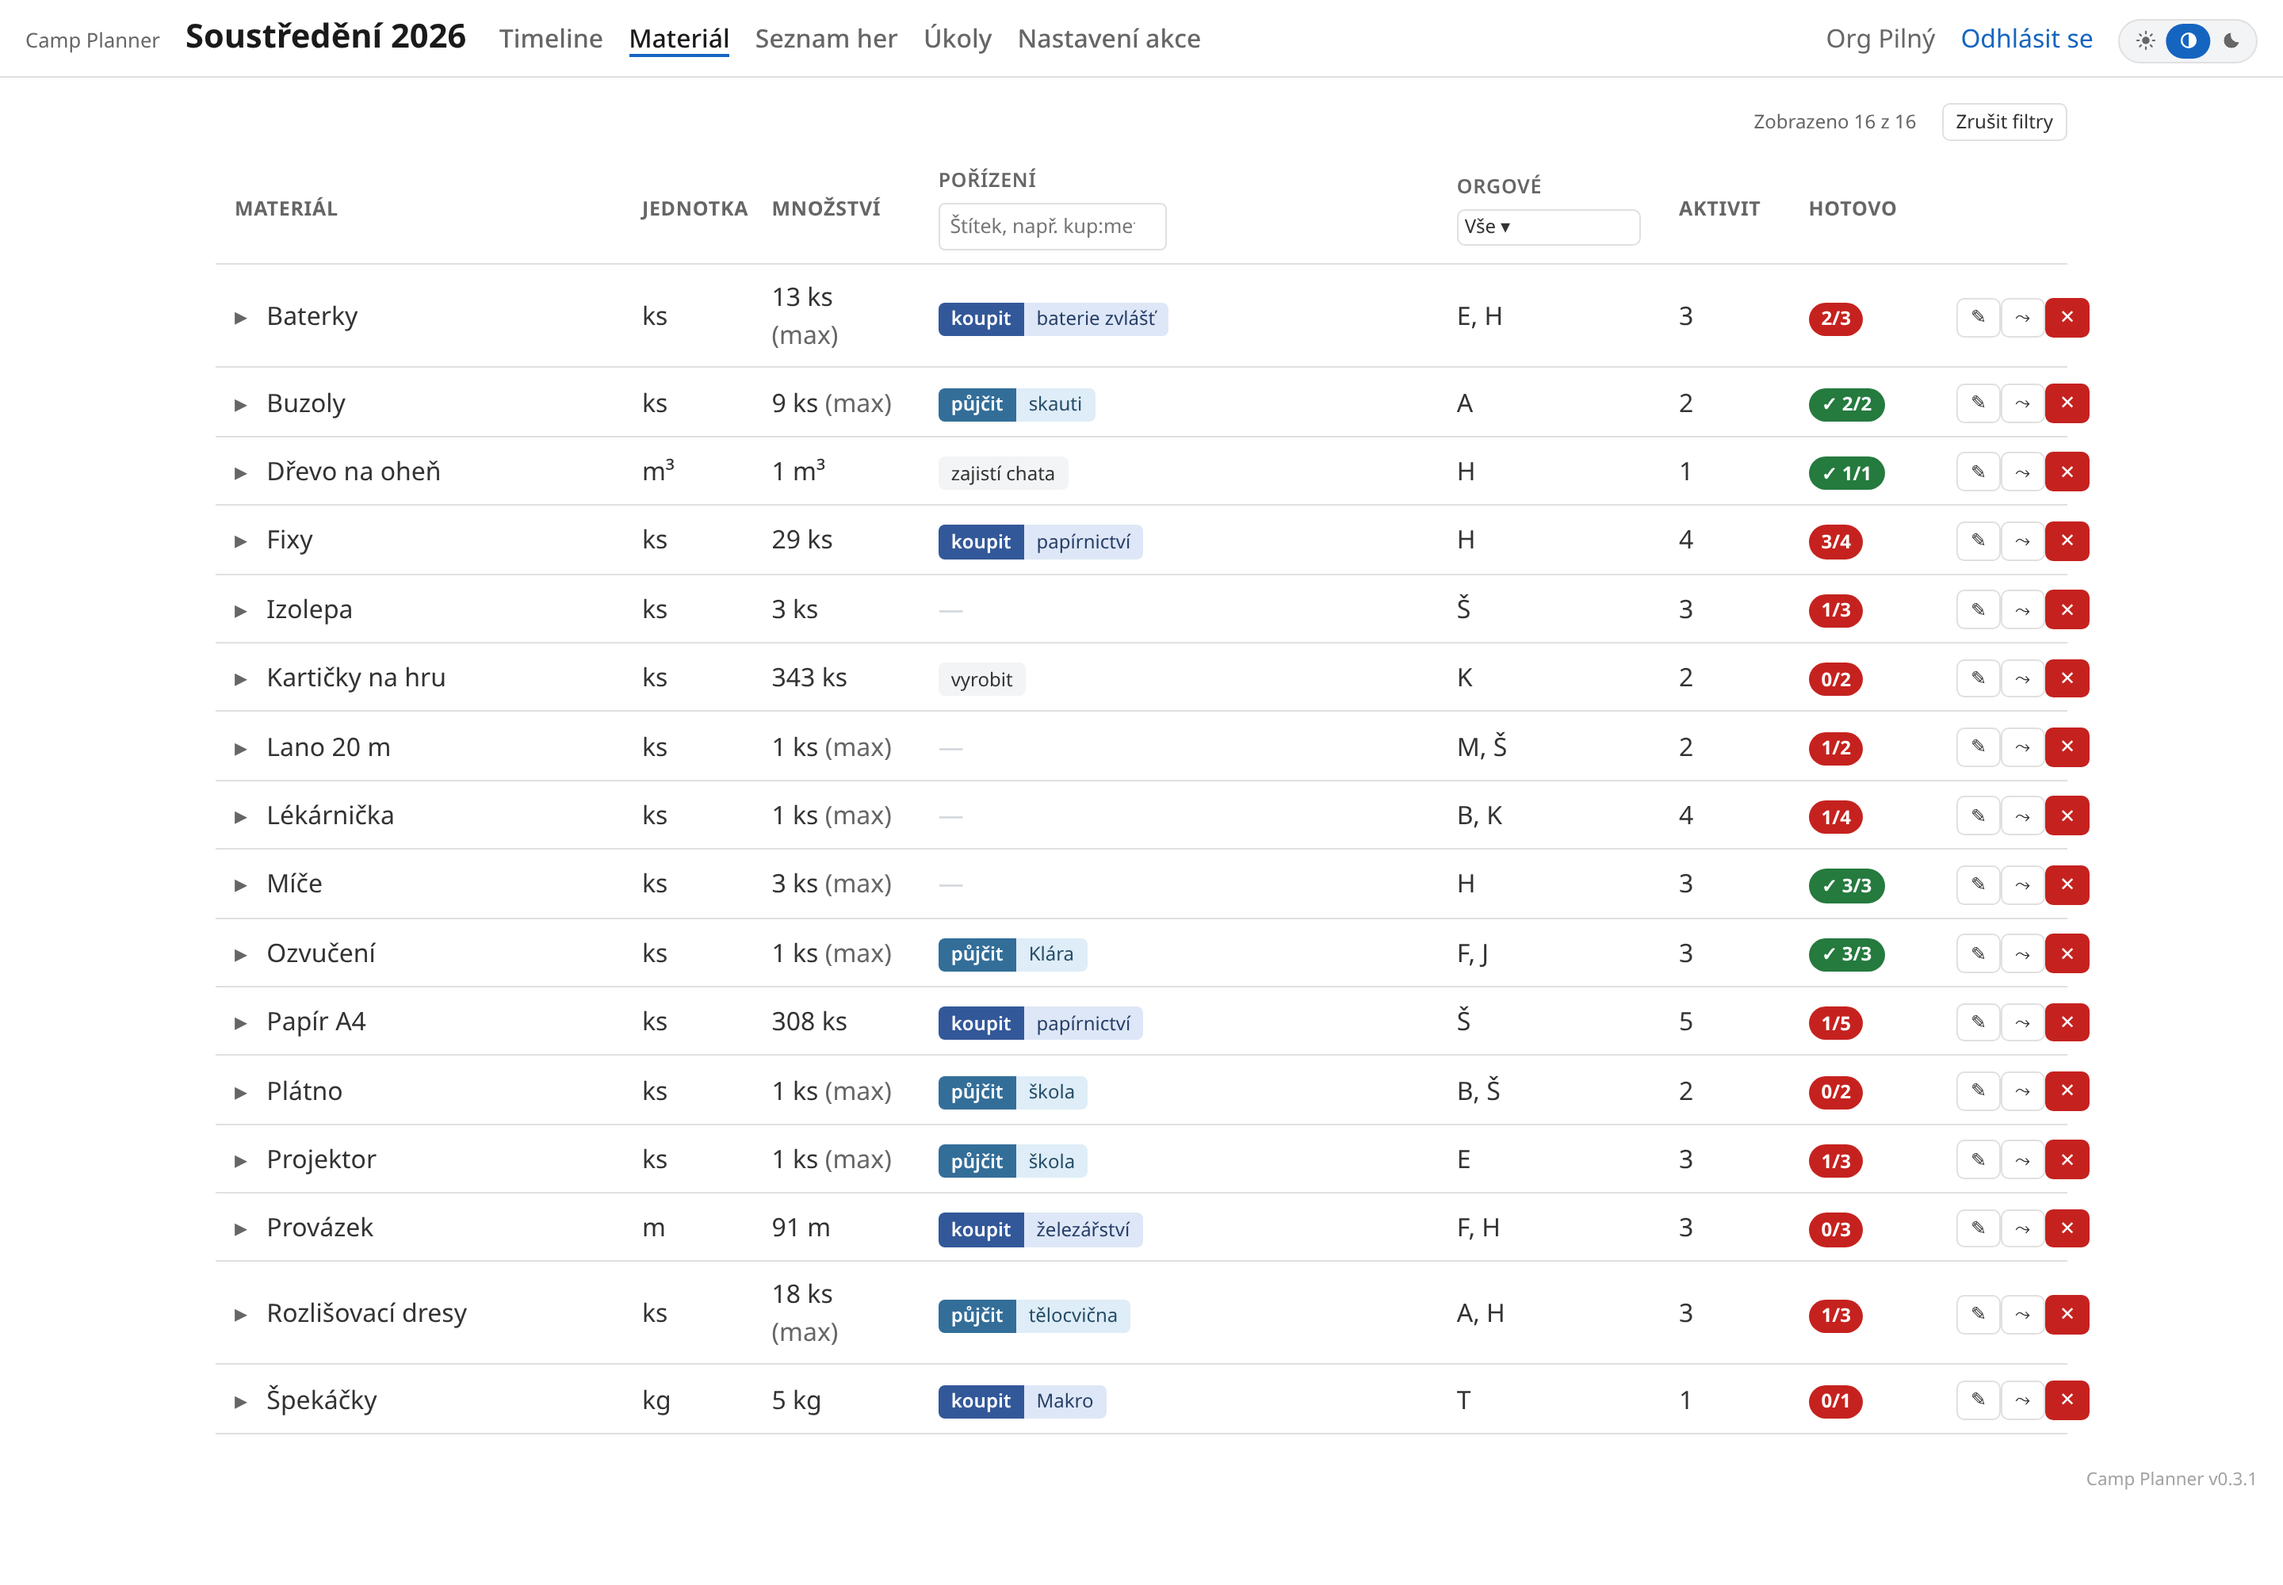
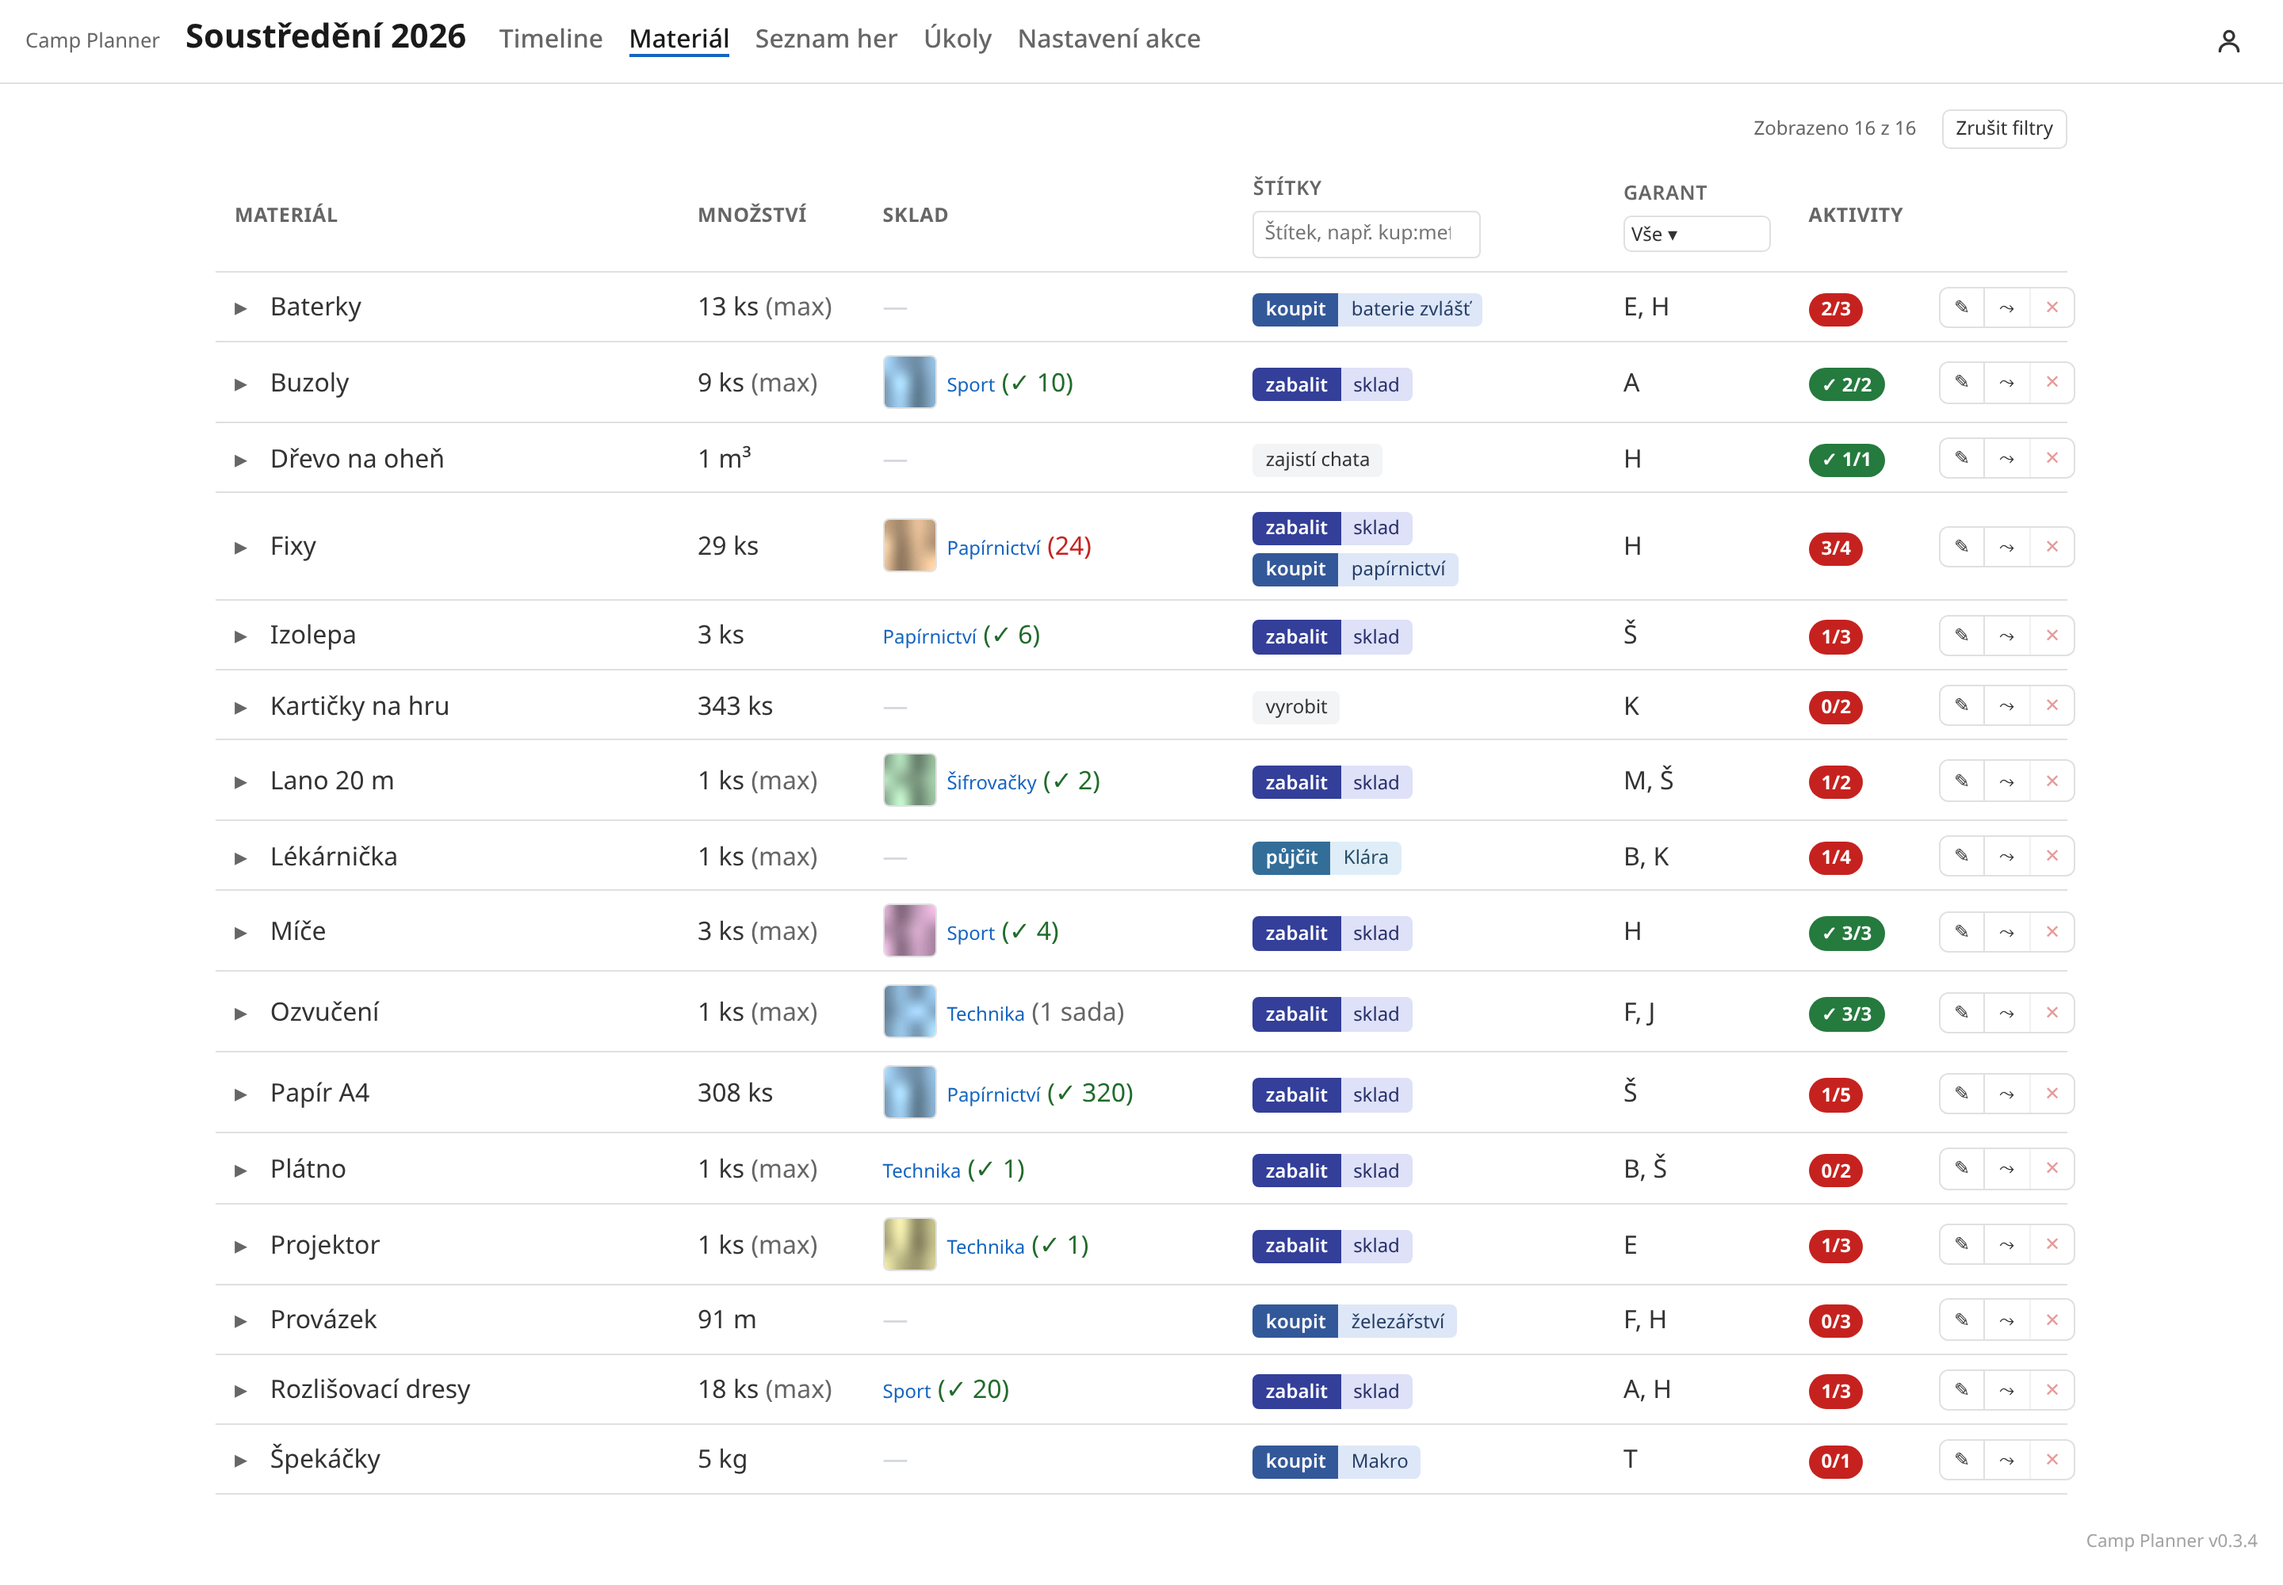
Warehouse: screenshots for the guide

diff --git a/scripts/shoot_docs.py b/scripts/shoot_docs.py
@@ -7,7 +7,7 @@ sees; only the admin-gated pages are taken as 'admin', so no screenshot advertis
 a control a normal user does not have.
 
     uv pip install -e '.[docs]' && uv run playwright install chromium
-    uv run flask --app wsgi seed-demo --out demo/demo.sqlite
+    uv run flask --app wsgi seed-demo --out demo/demo.sqlite --media demo/media
     uv run python scripts/shoot_docs.py
 """
 
@@ -30,6 +30,7 @@ from sqlalchemy.orm import Session
 
 from camp_planner.demo_data import (
     ADMIN_USER,
+    CAMP_NAME,
     EDITOR_USER,
     HERO_ACTIVITY,
     PASSWORD,
@@ -62,7 +63,7 @@ def wait_for(url: str, timeout: float = 30.0) -> None:
     raise SystemExit(f"server did not come up at {url}")
 
 
-def spawn_server(db: Path, port: int) -> subprocess.Popen:
+def spawn_server(db: Path, port: int, media: Path) -> subprocess.Popen:
     """Start the Flask server; the caller waits for /healthz once it needs it up."""
     env = {
         **os.environ,
@@ -70,6 +71,8 @@ def spawn_server(db: Path, port: int) -> subprocess.Popen:
         "AUTH_MODE": "standalone",
         "SECRET_KEY": "docs-screenshots",
         "FLASK_DEBUG": "0",
+        # Where seed-demo wrote the warehouse photos; unset, those pages lose them.
+        "MEDIA_DIR": str(media.resolve()),
     }
     return subprocess.Popen(
         [sys.executable, "-m", "flask", "--app", "wsgi", "run", "--port", str(port)],
@@ -219,6 +222,45 @@ def capture(base: str, out: Path, ids: dict[str, int], google: bool) -> None:
         else:
             print("  10-google-nacteni.webp skipped — demo seeded without --calendar")
 
+        # 13 — the warehouse map: boxes grouped by the shelf they stand on.
+        page.goto(f"{base}/inventory")
+        page.wait_for_selector(".cp-inv-tile-name")
+        shoot(page, out, "13-sklad-prehled.webp")
+
+        # 14 — one box: photos, other names, notes and the last checks' columns.
+        page.get_by_role("link", name="Papírnictví").click()
+        page.wait_for_selector(".cp-inv-item-name")
+        page.get_by_role("button", name="Historie").click()
+        page.wait_for_selector(".cp-inv-hist-head")
+        shoot(page, out, "14-sklad-krabice.webp")
+
+        # 15 — a thing's dialog: every field and its photos in one place.
+        page.get_by_title("Upravit", exact=True).first.click()
+        page.wait_for_selector(".cp-modal-overlay")
+        shoot(page, out, "15-sklad-vec.webp", selector=".cp-modal-overlay > *")
+        page.keyboard.press("Escape")
+
+        # 16 / 17 — a check in progress, started here rather than seeded (the demo database
+        # keeps only finished ones) and cancelled again below, so the run can repeat.
+        page.goto(f"{base}/inventory/checks")
+        page.get_by_role("button", name="Zahájit inventuru").click()
+        page.wait_for_selector(".cp-modal-overlay")
+        page.select_option("select.cp-modal-name", label=CAMP_NAME)
+        page.get_by_role("button", name="Zahájit", exact=True).click()
+        page.wait_for_selector(".cp-inv-progress")
+        # The "started" toast would otherwise sit in the corner of the shot.
+        page.locator(".cp-toast").wait_for(state="detached", timeout=10000)
+        shoot(page, out, "16-inventury.webp")
+
+        page.goto(f"{base}/inventory/boxes/1")
+        page.wait_for_selector(".cp-inv-taken")
+        shoot(page, out, "17-inventura.webp")
+
+        page.goto(f"{base}/inventory/checks")
+        page.once("dialog", lambda dialog: dialog.accept())    # the cancel confirms first
+        page.get_by_role("button", name="Zrušit inventuru").click()
+        page.get_by_role("button", name="Zahájit inventuru").wait_for()
+
         # 11 — the same timeline in the dark theme. The switch sits in the account
         # menu now, so the menu has to be opened for it and closed again before the shot.
         page.goto(camp)
@@ -264,12 +306,14 @@ def main() -> None:
     ap.add_argument("--db", type=Path, default=REPO / "demo/demo.sqlite")
     ap.add_argument("--out", type=Path, default=REPO / "docs/screenshots")
     ap.add_argument("--port", type=int, default=5099)
+    ap.add_argument("--media", type=Path, default=REPO / "demo/media",
+                    help="The seed's photo directory, served as MEDIA_DIR.")
     args = ap.parse_args()
 
     if not args.db.exists():
         raise SystemExit(f"{args.db} not found — run: flask --app wsgi seed-demo --out {args.db}")
 
-    proc = spawn_server(args.db, args.port)
+    proc = spawn_server(args.db, args.port, args.media)
     base = f"http://127.0.0.1:{args.port}"
     try:
         ids, google = read_demo(args.db)         # overlaps the Flask boot

diff --git a/docs/pruvodce.md b/docs/pruvodce.md
@@ -322,6 +322,8 @@ Nastavení servisního účtu popisuje [google_calendar_setup.md](google_calenda
 
 ## Sklad
 
+![Přehled skladu](screenshots/13-sklad-prehled.webp)
+
 Sklad je společný pro všechny akce; odkaz na něj je na úvodní stránce v hlavičce.
 Vidí do něj každý přihlášený, upravovat ho může editor aspoň jedné akce.
 
@@ -341,6 +343,10 @@ alternativní názvy pro hledání, odkaz (třeba na e-shop), poznámku a fotky.
 nemá vlastní stránku: na detailu krabice se tlačítkem ✎ otevře dialog s editací
 (včetně přidání/odebrání fotek), kliknutím na počet s jednotkou se otevře jen
 menší editační okno pro úpravu počtu.
+
+![Detail krabice s historií inventur](screenshots/14-sklad-krabice.webp)
+
+![Dialog věci](screenshots/15-sklad-vec.webp)
 
 S věcí se také dají udělat následující akce:
 
@@ -362,6 +368,8 @@ v tu chvíli se všechny zápisy propíší do stavu věcí. Dokončená inventu
 neměnná historie. Započatou inventuru lze i zrušit (**Zrušit inventuru** tamtéž),
 v tu chvíli se všechny zápisy inventury zahodí.
 
+![Stránka Inventury](screenshots/16-inventury.webp)
+
 Inventura se zahajuje na stránce **Inventury** a při zahajování lze zvolit
 i existující akci pro zobrazení pomocného sloupce **Použito na …** s tím, kolik
 které věci akce potřebovala (a tedy kolik se jich mělo vrátit nebo kolik se jich
@@ -376,6 +384,8 @@ Během inventury lze v detailu krabice o každé věci prohlásit:
 * **vyřadit** – věc už neexistuje,
 * **přesunout** – věc patří do jiné krabice,
 * **nezkontrolováno** – výchozí stav (lze se do něj vrátit přes **zrušit kontrolu**).
+
+![Zápis stavu během inventury](screenshots/17-inventura.webp)
 
 K zápisu jde připsat poznámka, při dokončení se připojí na konec existující
 poznámky u věci. Tlačítko **↝ Přesunout existující věc z jiné krabice** hledá v
